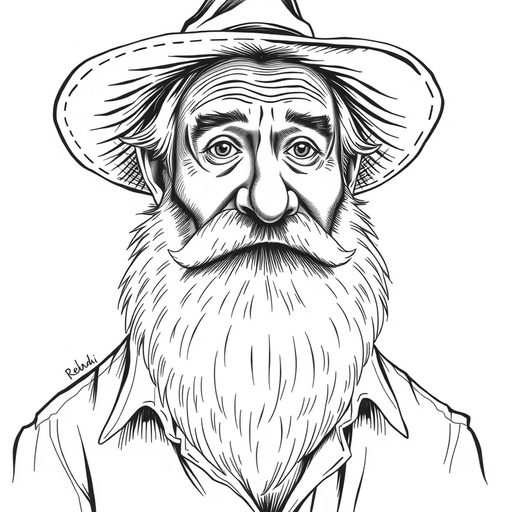
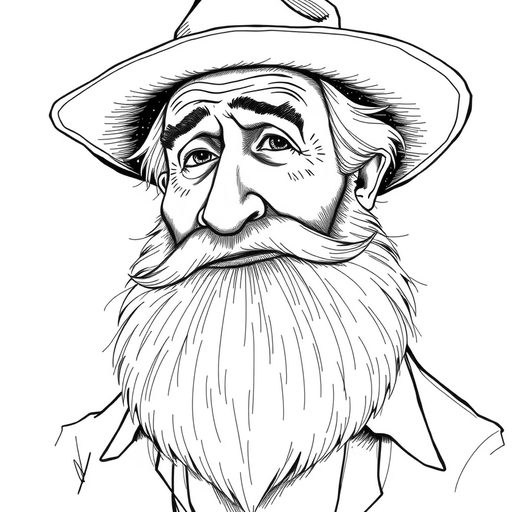
Whitman loses the fake signature, Nietzsche gets his real hair

Changed region(s): [[0.0312, 0.0, 1.0, 1.0], [0.0, 0.875, 0.0312, 0.9375]]

diff --git a/tools/portraits.py b/tools/portraits.py
@@ -52,8 +52,13 @@ OUT = ROOT / "docs" / "faces"
 # woman with a smooth face the model leaves the editorial-ink style entirely and
 # returns a doe-eyed vector illustration, which is what Austen and Dickinson were
 # until 26/08/2026. The style string is shared by all eighteen, so the correction
-# has to sit on the faces that need it. - the style is the same for
-# all eight so the set reads as one hand.
+# has to sit on the faces that need it.
+#
+# Some of it Flux will not do however it is worded. Three rounds on 28/08/2026 could
+# not get a flat uncurled moustache onto Proust or a bare upper lip onto Thoreau -
+# the caricature prior wins, and every candidate came back a handlebar. Rewriting the
+# line again is not the lever; drawing three or four and picking is. Wording that has
+# been tried and lost is left in place rather than escalated.
 # EVERY id in styles/ must appear here. A writer added to styles/ and forgotten here
 # raises KeyError and takes the whole workflow with it - on 26/08/2026 that killed the
 # portraits step, which skipped the Commit step, which threw away a completed reverdict
@@ -66,17 +71,17 @@ LOOK = {
     "aurelius": "a bearded Roman emperor in a plain toga, curly hair and beard, weary",
     "kafka":    "a thin young man in a dark suit and stiff collar, black hair swept straight back, a narrow face and large dark intense eyes",
     "thompson": "a bald man in aviator sunglasses with a cigarette holder clenched in his teeth, bucket hat",
-    "nietzsche": "a stern 19th-century German man whose hair is cropped close and plastered flat to the skull with no volume and no waves, a very heavy drooping walrus moustache covering the mouth entirely, deep-set eyes under heavy brows, buttoned dark coat",
+    "nietzsche": "a stern 19th-century German man whose hair is cropped close and plastered flat to the skull with no volume and no waves, a heavy walrus moustache that hangs straight DOWN over the mouth with its ends drooping below the corners of the lips, never waxed, never curled, never turned up at the ends, the chin and cheeks clean-shaven so there is a moustache and no beard at all, deep-set eyes under heavy brows, buttoned dark coat",
     "montaigne": "a balding 16th-century Frenchman with a pointed beard and a wide starched ruff collar",
     "ephron":   "a dark-haired American woman in her sixties, short practical haircut, amused sceptical expression, plain shirt",
     "didion":   "a very slight woman in her sixties, dark sunglasses, straight shoulder-length hair, cigarette, cool unsmiling expression",
-    "proust":   "a pale young Frenchman of the 1900s with a heavy black moustache lying flat across the upper lip like a straight bar with the ends cut square, never a handlebar and never waxed or curled upward, very large dark eyes with dark rings beneath them, thick black hair, high stiff collar and cravat, an invalid's delicacy",
+    "proust":   "a pale young Frenchman of the 1900s with a modest dark moustache sitting flat and low on the upper lip, no wider than the mouth itself, ends hanging slightly down, absolutely not a large waxed handlebar and not curled upward, very large dark eyes with dark rings beneath them, thick black hair, high stiff collar and cravat, an invalid's delicacy",
     "whitman":  "an old American with a huge untrimmed white beard spreading over his chest, a broad soft hat worn at an angle, open shirt collar, no tie, weathered kindly face",
     "austen":   "a young Englishwoman of about 1800 wearing a frilled white day cap tied under the chin with dark curls escaping at the temples, a high-waisted Regency dress, small knowing half-smile, a plain ordinary long-nosed face rather than a beautiful one, drawn in scratchy pen lines with heavy visible hatching over the face, never a smooth doe-eyed illustration",
     "woolf":    "an Englishwoman with a long narrow face and heavy-lidded eyes, dark hair pinned loosely back, a slightly haunted inward expression, plain high-necked blouse",
     "dickinson": "a young woman of the 1850s with hair parted severely in the centre and drawn back flat, a plain dark high-necked dress with a narrow white collar, very still direct unblinking gaze, a gaunt severe unsmiling face with hollow cheeks and a long jaw, drawn in scratchy scratchboard pen lines with heavy visible cross-hatching over the whole face, deliberately unglamorous, never a smooth clean-lined or doe-eyed illustration",
     "dickens":  "a Victorian gentleman with long wavy hair to the collar and a full straggling beard, deep-set lively eyes, velvet-collared coat and watch chain",
-    "thoreau":  "a plain-featured 19th-century New Englander whose beard grows only along the jawline and under the chin while the upper lip and both cheeks are clean-shaven, absolutely no moustache, unruly hair, a long nose, homespun jacket",
+    "thoreau":  "a plain-featured 19th-century New Englander wearing a chin curtain: the beard grows in a narrow fringe under the jaw and chin only, while the upper lip is shaved bare with no moustache of any kind and the cheeks are shaved bare, unruly hair, a long nose, homespun jacket",
 }
 
 # Black and white only. The first set carried an ochre accent and Flux kept turning it
